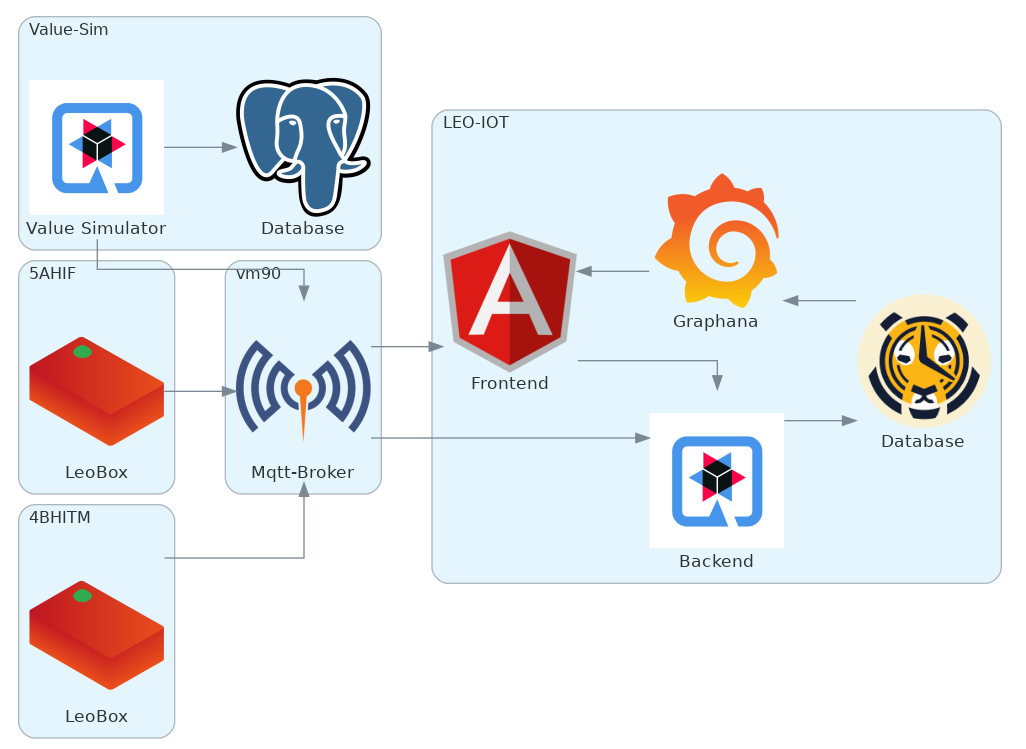
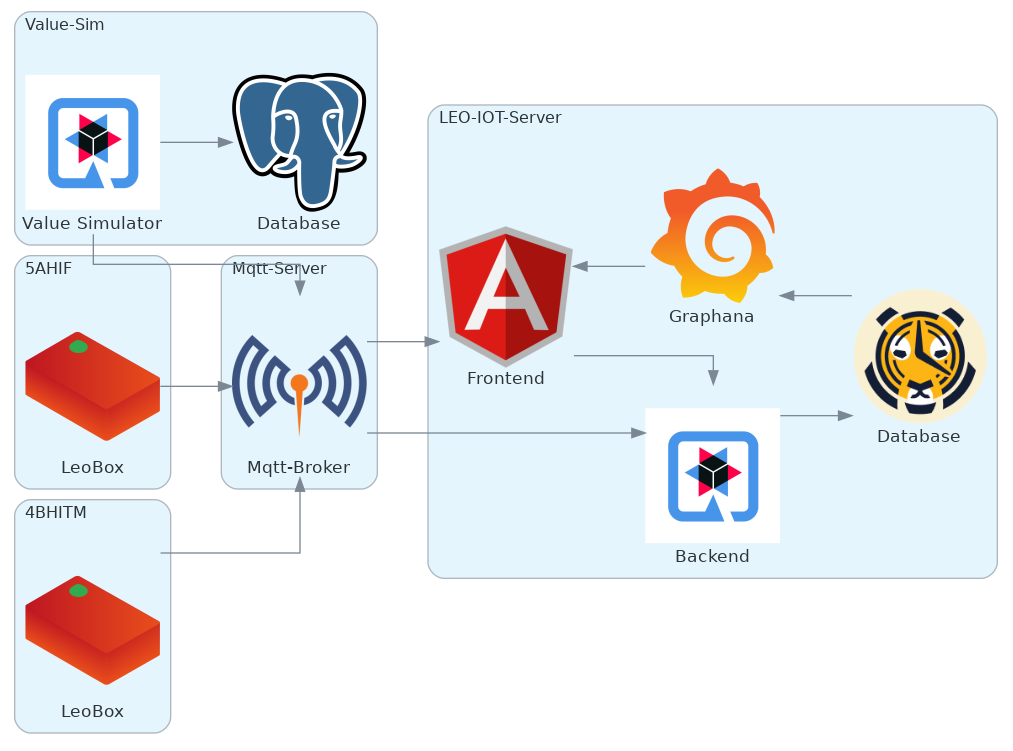
update project-award-2023 slides

diff --git a/docs/images/architecutrev2/generate.py b/docs/images/architecutrev2/generate.py
@@ -3,7 +3,7 @@ from diagrams.custom import Custom
 from diagrams.programming.framework import Angular
 
 with Diagram(show=False, direction='LR'):
-    with Cluster("LEO-IOT"):
+    with Cluster("LEO-IOT-Server"):
         leo_backend = Custom("Backend", "quarkus-logo.jpg")
 
         leo_frontend = Angular("Frontend")
@@ -23,7 +23,7 @@ with Diagram(show=False, direction='LR'):
         postgres = Custom("Database", "postgres_logo.png")
         leo_sim >> postgres
 
-    with Cluster("vm90"):
+    with Cluster("Mqtt-Server"):
         mosquitto = Custom("Mqtt-Broker", "mosquitto_logo.png")
 
     with Cluster("5AHIF"):
